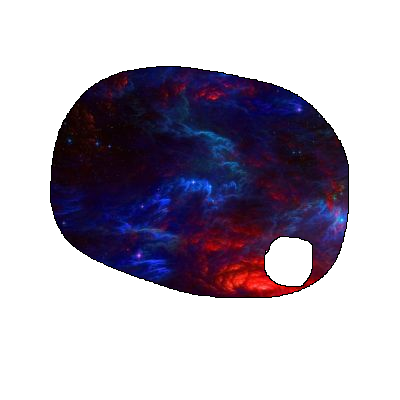
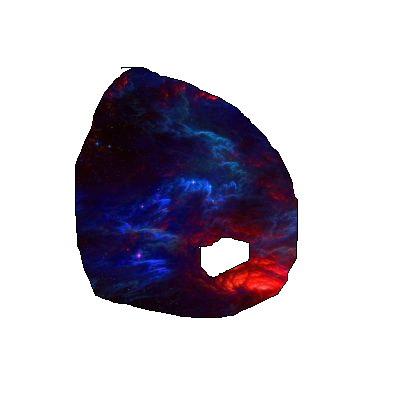
lab 3 | task 1 fix

Changed region(s): [[0.12, 0.15, 0.87, 0.81], [0.48, 0.57, 0.63, 0.69]]

diff --git a/lab3/1/1b.py b/lab3/1/1b.py
@@ -30,7 +30,7 @@ def flood_fill(image, x, y, target_image, target_color):
     for i in range(left_x + 1, right_x):
         flood_fill(image, i, y + 1, target_image, target_color)
 
-prev_x, prev_y = None, None
+prev_x, prev_y, start_x, start_y = None, None, None, None
 
 def main():
 
@@ -69,8 +69,22 @@ def main():
     root.mainloop()
 
 
-    start_x = 200
-    start_y = 200
+    root = tk.Tk()
+    canvas = tk.Canvas(root, width=image.width, height=image.height)
+    im0 = ImageTk.PhotoImage(Image.open('image_1bb.png'))
+
+    def point(event):
+        global start_x, start_y
+        start_x, start_y = int(event.x), int(event.y)
+        root.quit()
+        root.destroy()
+
+    canvas.bind("<Button-1>", point)
+    canvas.create_image(200, 200, image=im0)
+    canvas.pack()
+
+    root.mainloop()
+
 
     image = Image.open('image_1bb.png')
     target_image = Image.open('input_image.png')
